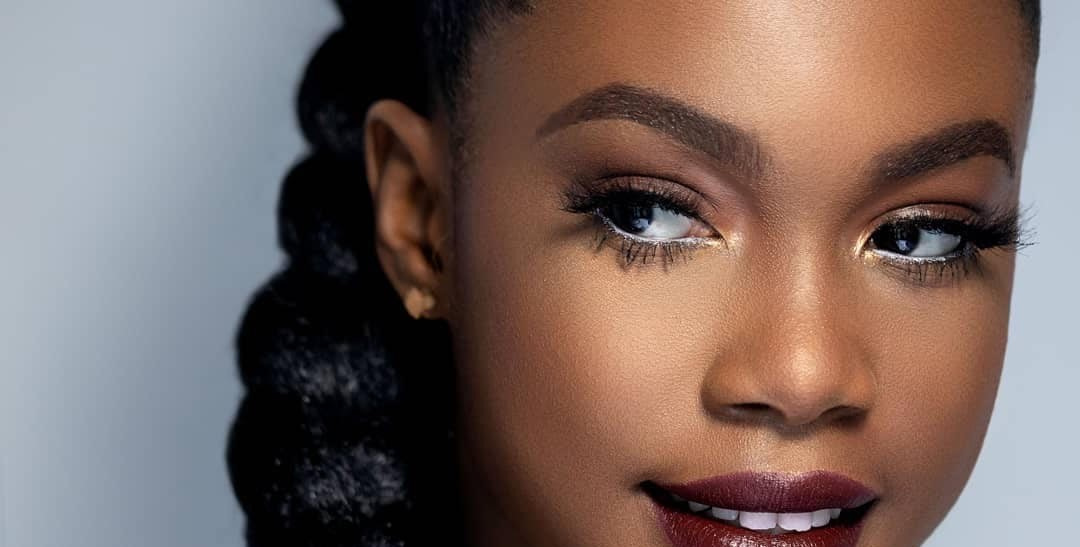
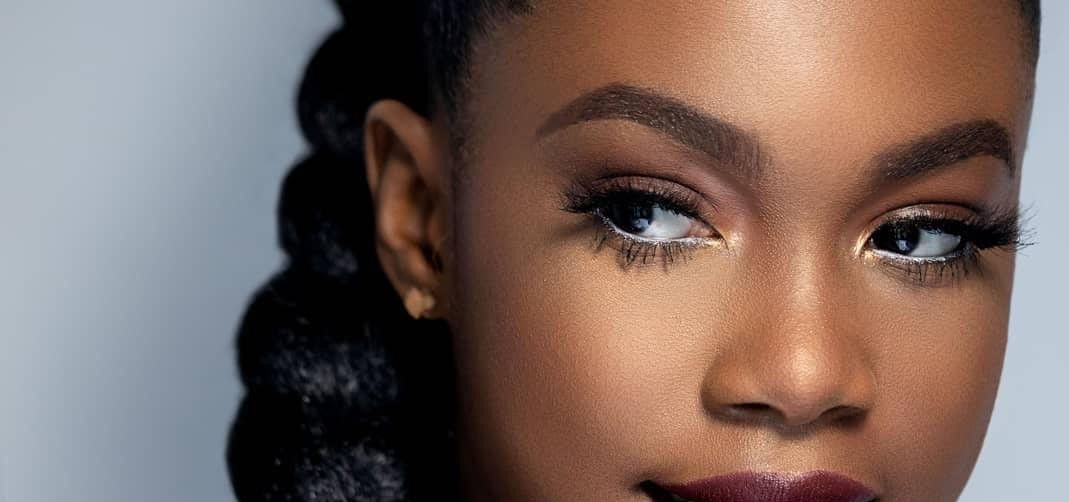
edited

diff --git a/css/welcome.css b/css/welcome.css
@@ -52,6 +52,7 @@ a {
 header{
   background: #000000;
   color :#000000;
+  position: fixed;
   width: 100%;
   height: var(--header-height);
   z-index: 9;
@@ -130,11 +131,10 @@ header nav > button#mobile-icon {
 }
 
 #hero {
-  background-image:url(../images/new3.jpg);
+  background-image:url(../images/new2.jpg);
   background-repeat: no-repeat;
-  background-position: right;
+  background-position: left;
   background-size: cover;
-  background-attachment: fixed;
   min-height: 730px;
   background-color: #000000;
   position: relative;
@@ -268,7 +268,7 @@ header nav > button#mobile-icon {
   font-family: "playfair Display", "sans-serif";
   font-style: italic;
   line-height: 1.75;
-  font-size: 25px;
+  font-size: 22px;
   text-align: center;
   padding-left: 100px;
   padding-right: 100px;
